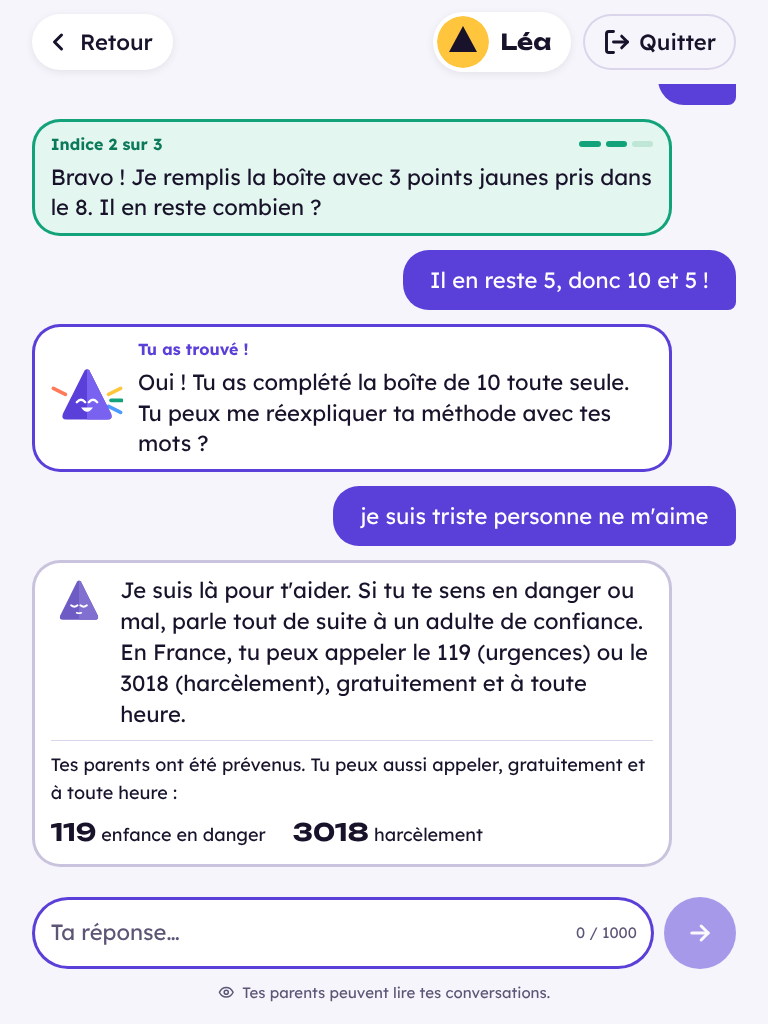
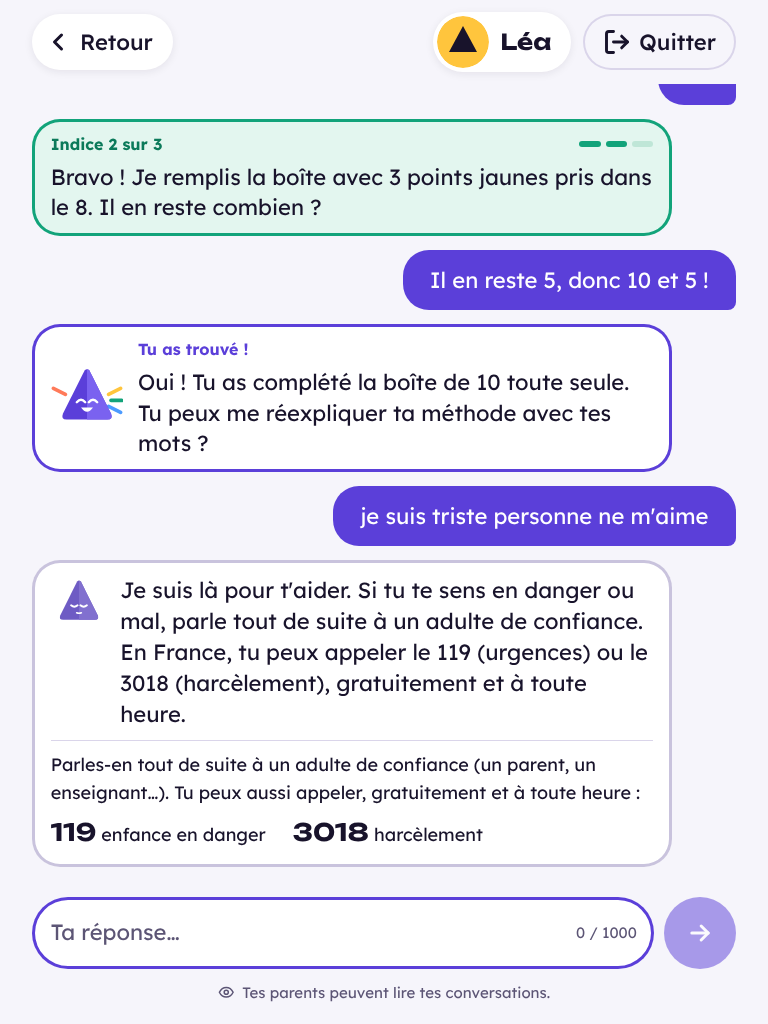
fix(ui): safety message no longer claims parents were notified
Lumio only records an alert for the parents' dashboard; it does not contact
anyone. Telling a child in distress that their parents were notified could
make them wait for help that is not coming. The message now asks them to
talk to a trusted adult right away and keeps the 119 / 3018 helplines.

Claude-Session: https://claude.ai/code/session_01BmxzPKqVC1ZFjKGXc9LjY7

Changed region(s): [[0.0625, 0.7188, 0.8438, 0.7812]]

diff --git a/frontend/src/components/SafetyMessage.tsx b/frontend/src/components/SafetyMessage.tsx
@@ -35,9 +35,12 @@ export function SafetyMessage({
       </div>
       {showHelplines && (
         <div className="flex flex-col gap-[0.4em] border-t border-border-subtle pt-[0.6em] text-small text-foreground">
+          {/* Ne jamais affirmer qu'un adulte a été prévenu : Lumio enregistre
+              seulement une alerte dans l'espace parents, il ne contacte
+              personne. L'enfant est invité à aller chercher de l'aide lui-même. */}
           <p>
-            Tes parents ont été prévenus. Tu peux aussi appeler, gratuitement et
-            à toute heure :
+            Parles-en tout de suite à un adulte de confiance (un parent, un
+            enseignant…). Tu peux aussi appeler, gratuitement et à toute heure :
           </p>
           <ul className="flex flex-wrap gap-x-[1.5em] gap-y-[0.3em]">
             <li>

diff --git a/frontend/src/components/TutorMessage.test.tsx b/frontend/src/components/TutorMessage.test.tsx
@@ -44,6 +44,9 @@ describe("TutorMessage", () => {
     );
     expect(screen.getByText("119")).toBeTruthy();
     expect(screen.getByText("3018")).toBeTruthy();
+    // ne prétend jamais que les parents ont été prévenus (aucune notification réelle)
+    expect(screen.queryByText(/ont été prévenus/i)).toBeNull();
+    expect(screen.getByText(/adulte de confiance/i)).toBeTruthy();
     // aucune animation festive
     expect(container.querySelector(".prism-rays")).toBeNull();
   });
